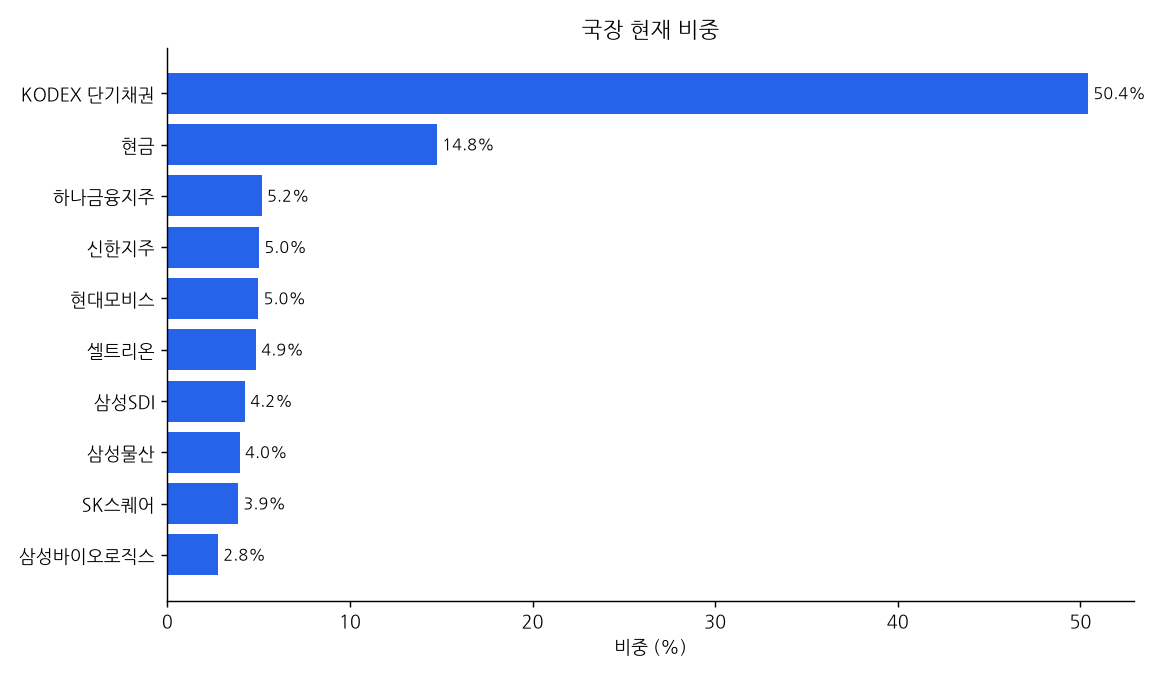
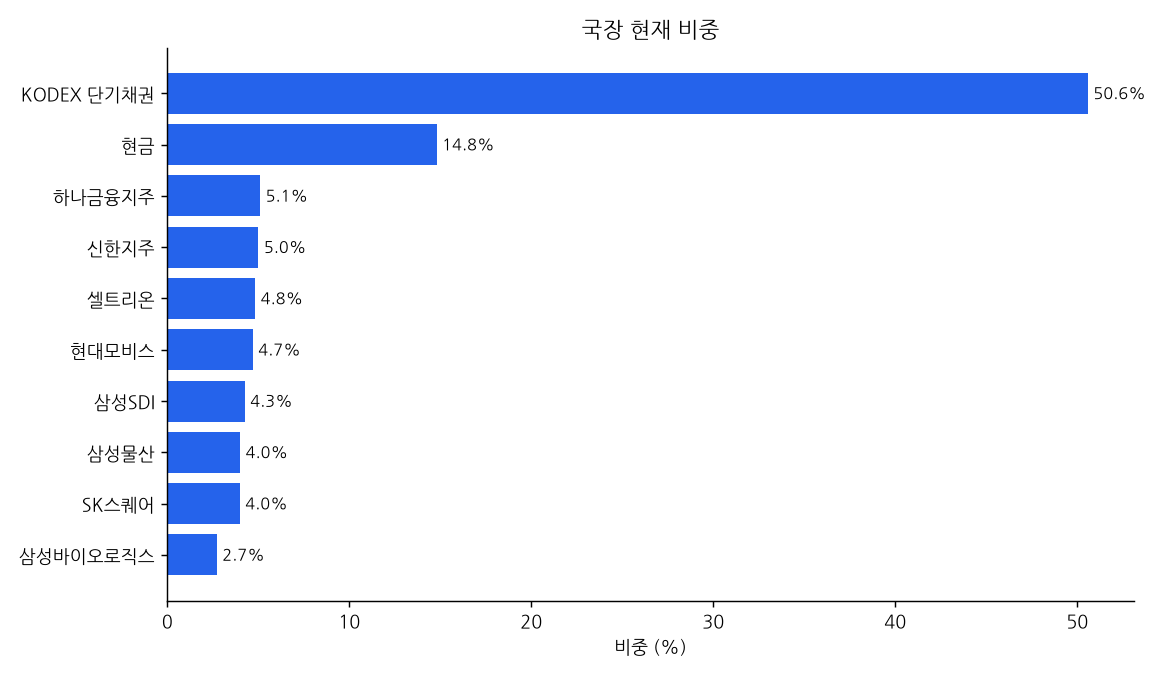
dashboard 2026-11-26 16:00

diff --git a/README.md b/README.md
@@ -1,11 +1,11 @@
 # 📈 내 자동매매 포트폴리오
 
-_마지막 갱신: 2026-11-26 07:30 (KST) · 라즈베리파이 자동 업데이트_
+_마지막 갱신: 2026-11-26 16:00 (KST) · 라즈베리파이 자동 업데이트_
 
 | 트랙 | 시작일 | 누적 수익률 | 비교 지수 | 초과 | 최근 1개월 | 국면 |
 |---|---|---|---|---|---|---|
 | 미장 | 2026-11-05 | **-3.04%** | -2.22% | -0.82% | - | BEAR |
-| 국장 | 2026-11-06 | **-1.71%** | -7.42% | +5.71% | - | BEAR |
+| 국장 | 2026-11-06 | **-2.02%** | -7.10% | +5.08% | - | BEAR |
 
 ## 미장
 
@@ -34,16 +34,16 @@ _마지막 갱신: 2026-11-26 07:30 (KST) · 라즈베리파이 자동 업데이
 
 | 종목 | 비중 |
 |---|---|
-| KODEX 단기채권 | 50.4% |
+| KODEX 단기채권 | 50.6% |
 | 현금 | 14.8% |
-| 하나금융지주 | 5.2% |
+| 하나금융지주 | 5.1% |
 | 신한지주 | 5.0% |
-| 현대모비스 | 5.0% |
-| 셀트리온 | 4.9% |
-| 삼성SDI | 4.2% |
+| 셀트리온 | 4.8% |
+| 현대모비스 | 4.7% |
+| 삼성SDI | 4.3% |
 | 삼성물산 | 4.0% |
-| SK스퀘어 | 3.9% |
-| 삼성바이오로직스 | 2.8% |
+| SK스퀘어 | 4.0% |
+| 삼성바이오로직스 | 2.7% |
 
 ![국장 비중](charts/kr_weights.png)
 
